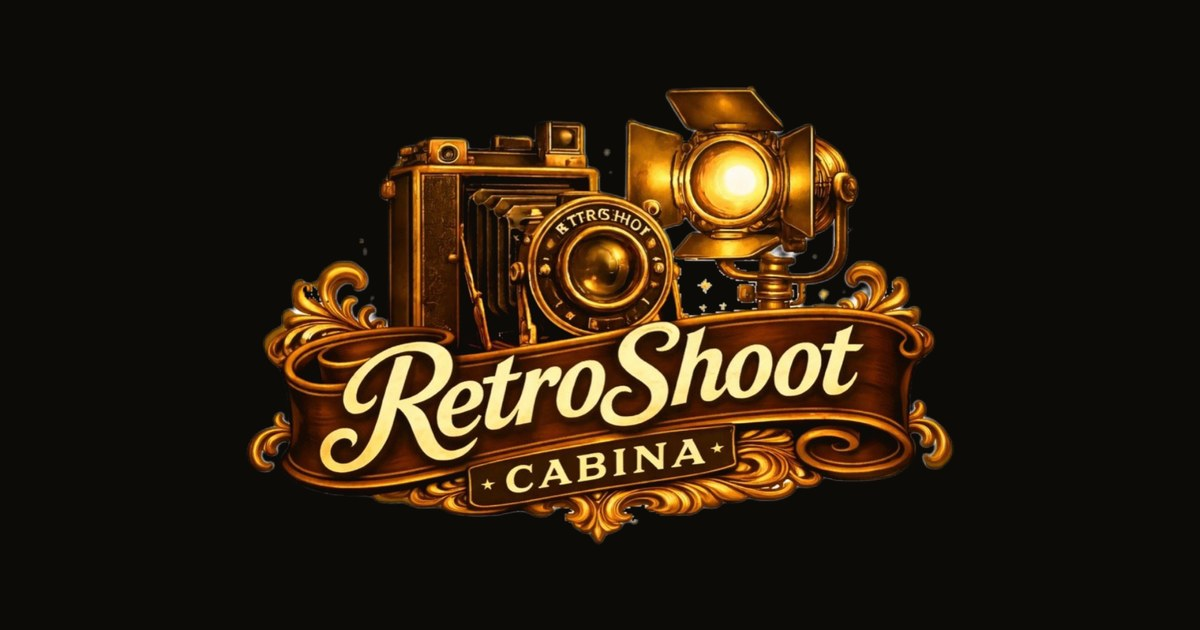
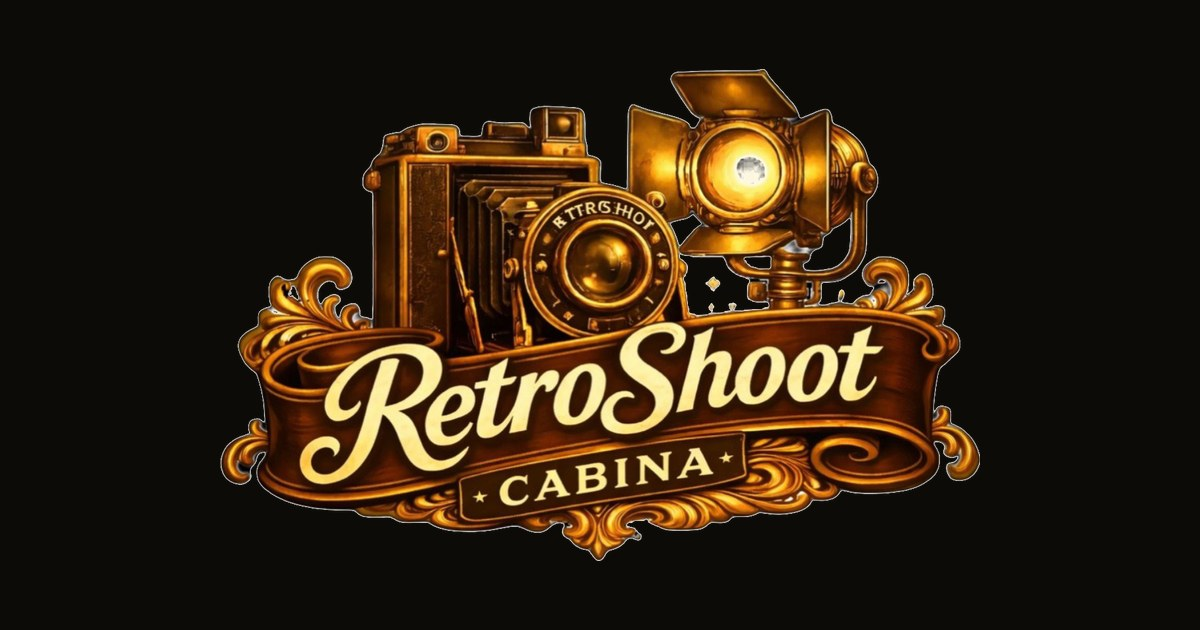
Marca: wordmark tipografico 'RetroShoot' (Lobster) en nav y footer
Reemplaza la imagen del logo (que a tamano chico quedaba empastada o
recortada) por el nombre en tipografia script retro + tag CABINA. Escala
nitido en cualquier tamano. La tarjeta social (og-cover.jpg) ahora usa
el logo completo de la marca sobre fondo oscuro. styles/js a ?v=3.

Changed region(s): [[0.185, 0.0905, 0.8325, 0.9048]]

diff --git a/index.html b/index.html
@@ -26,9 +26,9 @@
 
 <link rel="preconnect" href="https://fonts.googleapis.com" />
 <link rel="preconnect" href="https://fonts.gstatic.com" crossorigin />
-<link href="https://fonts.googleapis.com/css2?family=Playfair+Display:ital,wght@0,400;0,500;0,600;0,700;0,800;0,900;1,400;1,500;1,600&family=Outfit:wght@300;400;500;600;700&family=Alex+Brush&display=swap" rel="stylesheet" />
+<link href="https://fonts.googleapis.com/css2?family=Lobster&family=Playfair+Display:ital,wght@0,400;0,500;0,600;0,700;0,800;0,900;1,400;1,500;1,600&family=Outfit:wght@300;400;500;600;700&display=swap" rel="stylesheet" />
 
-<link rel="stylesheet" href="assets/css/styles.css?v=2" />
+<link rel="stylesheet" href="assets/css/styles.css?v=3" />
 </head>
 <body>
 
@@ -39,7 +39,8 @@
 <header class="nav" id="top">
   <div class="wrap nav__inner">
     <a class="brand" href="#top" aria-label="RetroShoot Cabina, inicio">
-      <img src="assets/img/logo.png" alt="RetroShoot Cabina" width="480" height="314" />
+      <span class="brand__word">RetroShoot</span>
+      <span class="brand__tag">Cabina</span>
     </a>
     <nav class="nav__links" aria-label="Secciones">
       <a href="#experiencia">Experiencia</a>
@@ -310,7 +311,8 @@
   <div class="wrap foot__inner">
     <div>
       <a class="brand brand--foot" href="#top" aria-label="RetroShoot Cabina, inicio">
-        <img src="assets/img/logo.png" alt="RetroShoot Cabina" width="480" height="314" loading="lazy" />
+        <span class="brand__word">RetroShoot</span>
+        <span class="brand__tag">Cabina</span>
       </a>
       <p class="foot__line">Cabina fotográfica con estilo retro para fiestas.</p>
     </div>
@@ -334,6 +336,6 @@
 </a>
 
 <script src="https://unpkg.com/@phosphor-icons/web@2.1.1"></script>
-<script src="assets/js/main.js?v=2" defer></script>
+<script src="assets/js/main.js?v=3" defer></script>
 </body>
 </html>

diff --git a/assets/css/styles.css b/assets/css/styles.css
@@ -82,9 +82,27 @@ a:focus-visible, button:focus-visible, summary:focus-visible {
 }
 
 /* ---------- brand lockup ---------- */
-.brand { display: inline-flex; align-items: center; line-height: 0; }
-.brand img { height: 34px; width: auto; display: block; }
-.brand--foot img { height: 48px; }
+.brand { display: inline-flex; align-items: center; gap: 0.6rem; line-height: 1; }
+.brand__word {
+  font-family: "Lobster", var(--font-display), cursive;
+  font-weight: 400;
+  font-size: 1.62rem;
+  color: var(--cream);
+  letter-spacing: 0.005em;
+  text-shadow: 0 1px 2px rgba(0, 0, 0, 0.4);
+}
+.brand__tag {
+  font-family: var(--font-ui);
+  font-size: 0.6rem;
+  font-weight: 600;
+  letter-spacing: 0.34em;
+  text-transform: uppercase;
+  color: var(--brass);
+  padding-left: 0.65rem;
+  border-left: 1px solid var(--line);
+}
+.brand--foot .brand__word { font-size: 2rem; }
+.brand--foot .brand__tag { font-size: 0.66rem; }
 
 /* ---------- buttons ---------- */
 .btn {
@@ -593,8 +611,8 @@ a:focus-visible, button:focus-visible, summary:focus-visible {
 
 @media (max-width: 760px) {
   .nav__links { display: none; }
-  .nav__inner { height: 60px; }
-  .brand img { height: 30px; }
+  .nav__inner { height: 62px; }
+  .brand__word { font-size: 1.42rem; }
   .btn--sm { padding: 0.62em 0.95em; font-size: 0.78rem; }
   .hero { min-height: auto; display: block; padding-block: 6rem 3.5rem; }
   .hero__title { font-size: clamp(1.95rem, 1.5rem + 2.6vw, 3rem); max-width: 20ch; }
@@ -609,7 +627,8 @@ a:focus-visible, button:focus-visible, summary:focus-visible {
 }
 
 @media (max-width: 480px) {
-  .brand img { height: 28px; }
+  .brand__word { font-size: 1.3rem; }
+  .brand__tag { display: none; }
   .btn--sm { padding: 0.55em 0.8em; font-size: 0.72rem; }
 }
 
